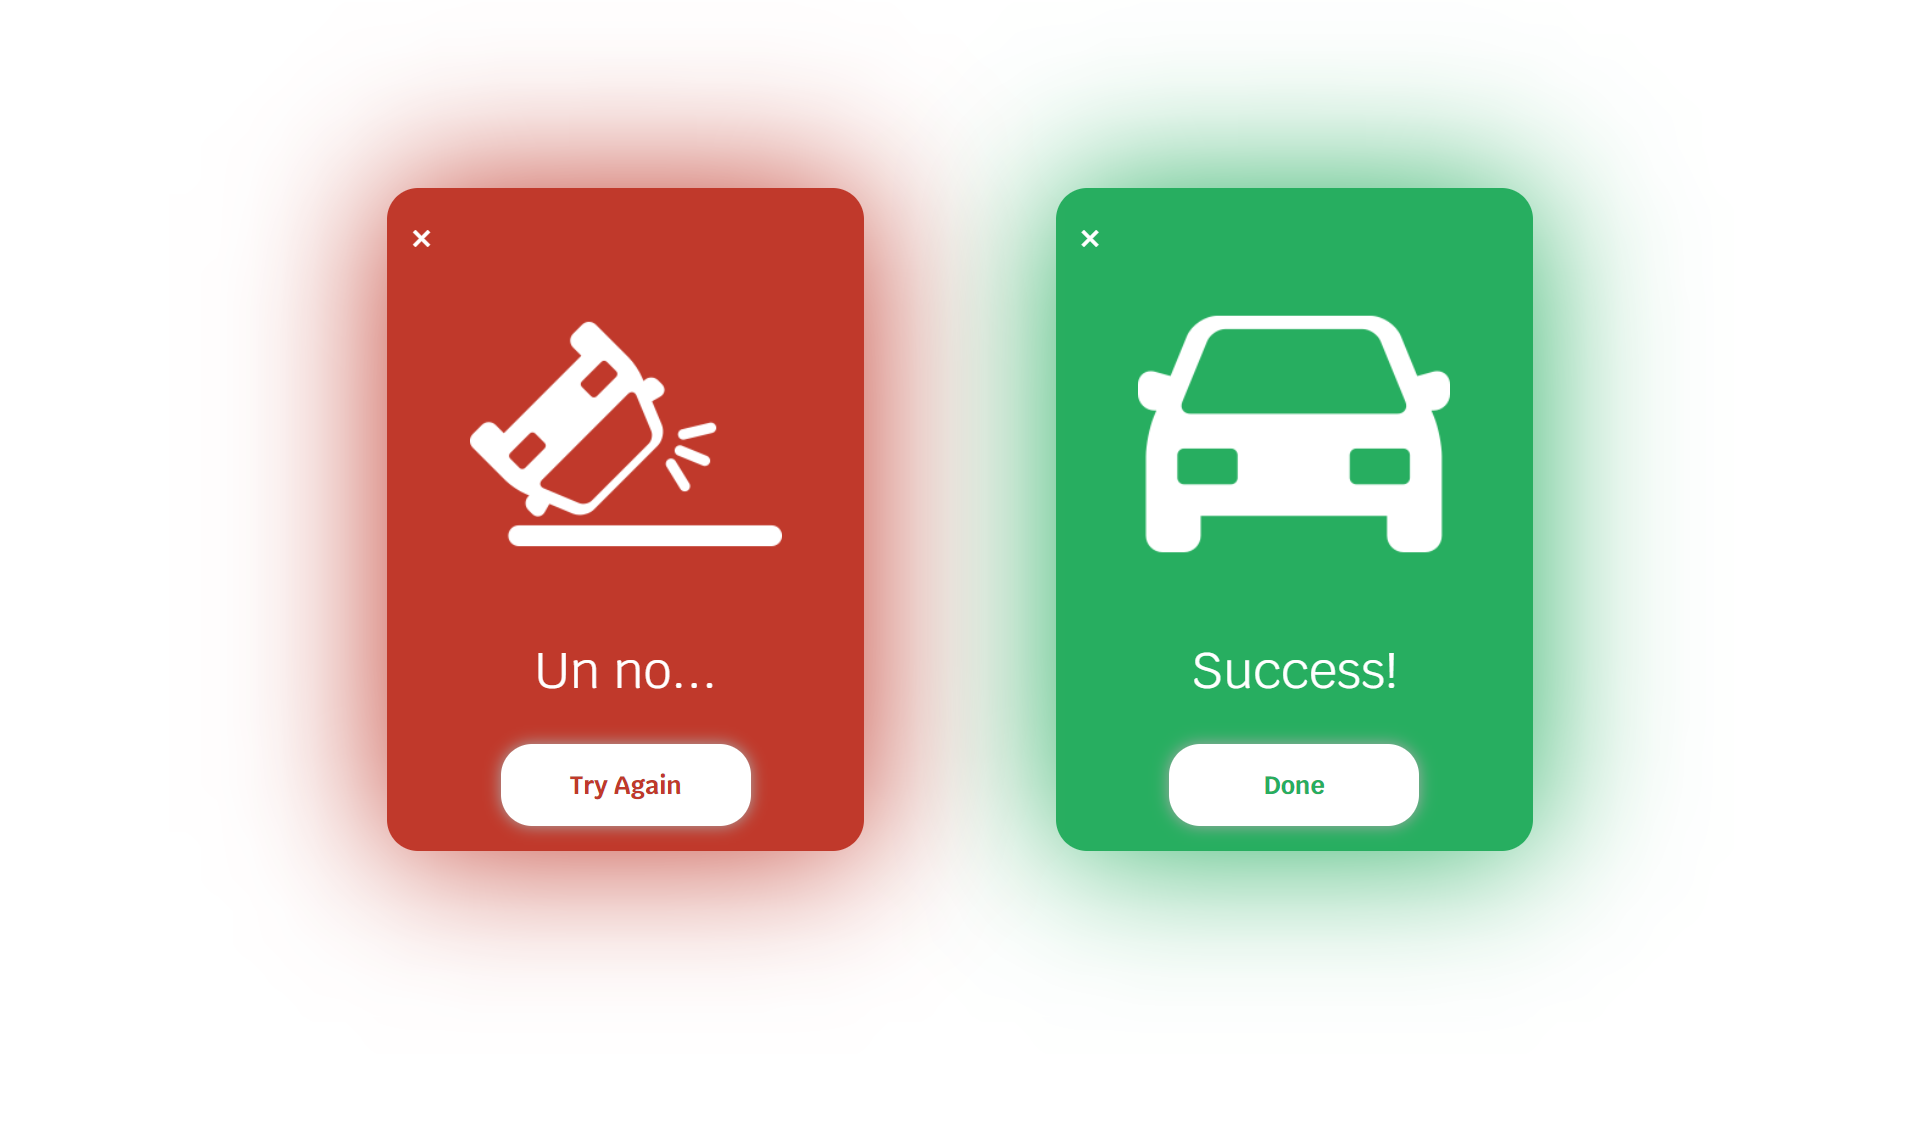
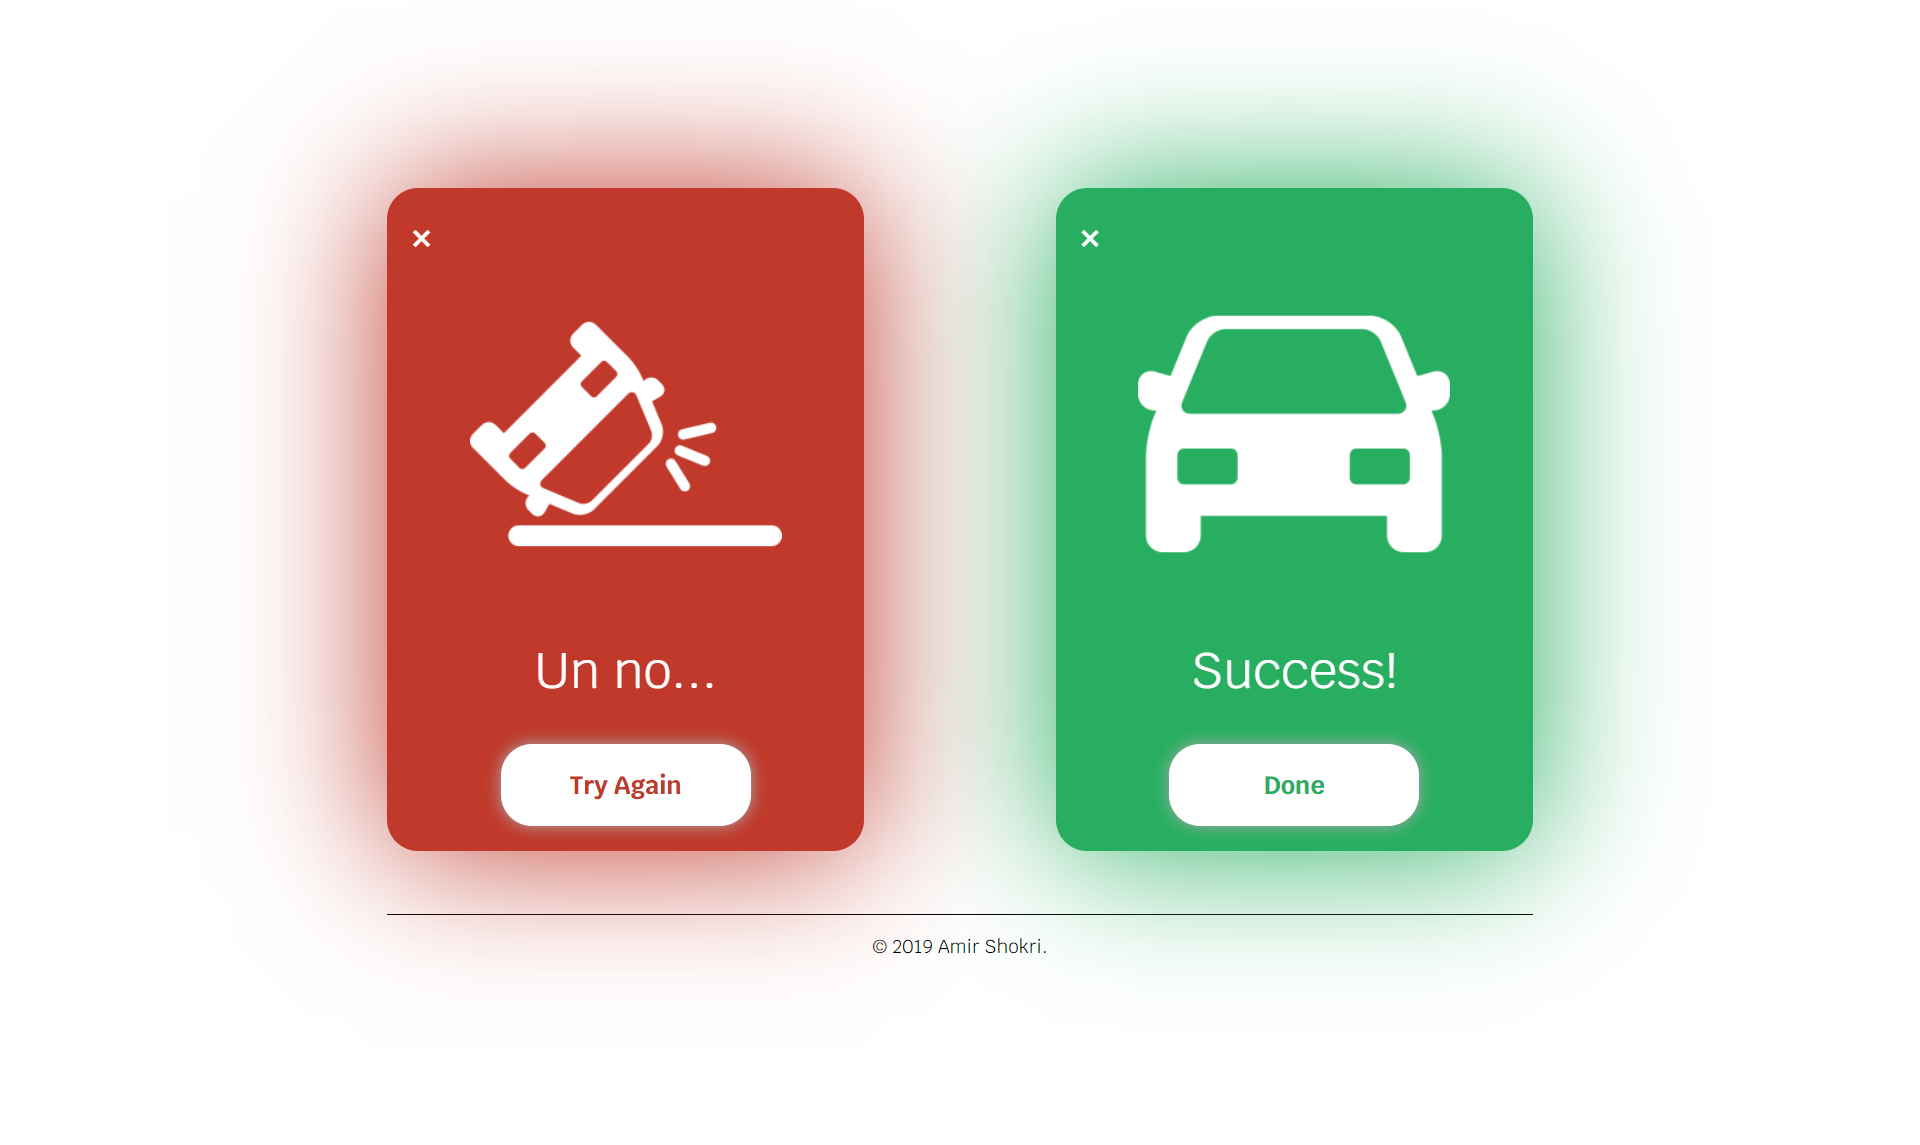
commit #28 (finish 012)
finish 012 E-Commerce Shop

diff --git a/012_e_commerce_shop.html b/012_e_commerce_shop.html
@@ -14,9 +14,132 @@
 	<div class="ui-012 left-to-right krub-regular d-block">
 
 		<!-- Page Content -->
-		<div class="container">
+		<div class="right-shop float-right col-9">
+			<div class="top-right-shop bg-light col-12">
+				<div class="float-right">
+					<div class="d-inline-block avatar"><img src="assets/img/avatar-012.png" alt="Avatar" title="Avatar" height="20" width="20" /></div>
+					<p class="d-inline username">Mr.nll</p>
+				</div>
+				<div class="float-left">
+					<a href="#" title="Back to Shop" class="text-dark back-to"><span class="fas fa-1x fa-arrow-left"></span>&nbsp; Back to Shop</a>
+				</div>
+				<div class="clearfix"></div>
+			</div>
+			<div class="bottom-right-shop clouds-bg col-12">
 
+				<div class="product-list">
+
+					<a href="#" title="Product 1" class="text-dark text-center">
+						<div class="product-item float-left col-4 d-inline">
+							<div class="product-image">
+								<img src="assets/img/product-1-012.png" alt="Product 1" title="Product 1" width="200" />
+							</div>
+							<div class="product-title">
+								<p>Product 1</p>
+							</div>
+							<div class="product-price">
+								<p class="text-bold">30.0$</p>
+							</div>
+						</div>
+					</a>
+
+					<a href="#" title="Product 2" class="text-dark text-center">
+						<div class="product-item float-left col-4 d-inline">
+							<div class="product-image">
+								<img src="assets/img/product-2-012.png" alt="Product 2" title="Product 2" width="200" />
+							</div>
+							<div class="product-title">
+								<p>Product 2</p>
+							</div>
+							<div class="product-price">
+								<p class="text-bold">32.0$</p>
+							</div>
+						</div>
+					</a>
+
+					<a href="#" title="Product 3" class="text-dark text-center">
+						<div class="product-item float-left col-4 d-inline">
+							<div class="product-image">
+								<img src="assets/img/product-3-012.png" alt="Product 3" title="Product 3" width="200" />
+							</div>
+							<div class="product-title">
+								<p>Product 3</p>
+							</div>
+							<div class="product-price">
+								<p class="text-bold">43.0$</p>
+							</div>
+						</div>
+					</a>
+
+					<a href="#" title="Product 4" class="text-dark text-center">
+						<div class="product-item float-right col-4 d-inline">
+							<div class="product-image">
+								<img src="assets/img/product-4-012.png" alt="Product 4" title="Product 4" width="200" />
+							</div>
+							<div class="product-title">
+								<p>Product 4</p>
+							</div>
+							<div class="product-price">
+								<p class="text-bold">12.0$</p>
+							</div>
+						</div>
+					</a>
+
+					<a href="#" title="Product 5" class="text-dark text-center">
+						<div class="product-item float-right col-4 d-inline">
+							<div class="product-image">
+								<img src="assets/img/product-5-012.png" alt="Product 5" title="Product 5" width="200" />
+							</div>
+							<div class="product-title">
+								<p>Product 5</p>
+							</div>
+							<div class="product-price">
+								<p class="text-bold">15.9$</p>
+							</div>
+						</div>
+					</a>
+
+					<a href="#" title="Product 6" class="text-dark text-center">
+						<div class="product-item float-left col-4 d-inline">
+							<div class="product-image">
+								<img src="assets/img/product-6-012.png" alt="Product 6" title="Product 6" width="200" />
+							</div>
+							<div class="product-title">
+								<p>Product 6</p>
+							</div>
+							<div class="product-price">
+								<p class="text-bold">9.9$</p>
+							</div>
+						</div>
+					</a>
+
+					<div class="clearfix"></div>
+
+				</div>
+
+			</div>
 		</div>
+		<div class="left-shop float-left col-3">
+			<div class="top-left-shop clouds-bg col-12 text-center">
+				<h1 class="dispkay-1-2 text-normal d-inline-block">Apple</h1><br />
+				<h2 class="dispkay-1 text-normal d-inline-block">Store</h2>
+			</div>
+			<div class="bottom-left-shop bg-light col-12">
+				<h3 class="dispkay-4">Shop</h3>
+				<ul class="category">
+					<li><a href="#" title="AirPods" class="text-dark">AirPods</a></li>
+					<li><a href="#" title="Clear Case" class="text-dark">Clear Case</a></li>
+					<li><a href="#" title="Leather Case" class="text-dark">Leather Case</a></li>
+					<li><a href="#" title="Silicone Case" class="text-dark">Silicone Case</a></li>
+					<li><a href="#" title="Wireless Charging Pad" class="text-dark">Wireless Charging Pad</a></li>
+				</ul>
+
+				<div class="copyright p-absolute">
+					<p class="display-1-2">&copy; 2019 Amir Shokri.</p>
+				</div>
+			</div>
+		</div>
+		<div class="clearfix"></div>
 
 	</div>
 

diff --git a/assets/css/layout.css b/assets/css/layout.css
@@ -591,6 +591,10 @@ div {
 	min-width: 200px;
 	box-shadow: 0 0 20px #aaa;
 }
+.ui-011 .copyright {
+	margin-top: 50px;
+	border-top: 1px solid #000;
+}
 
 
 /* UI-012 */
@@ -599,4 +603,61 @@ div {
 	height: 100%;
 	margin : 0;
 	padding: 0;
+}
+.ui-012 .left-shop {
+	height: 100vh;
+}
+.ui-012 .right-shop {
+	min-height: 100vh;
+}
+.ui-012 .right-shop .back-to {
+	letter-spacing: 1px;
+}
+.ui-012 .right-shop .back-to span {
+	margin-right: 30px;
+}
+.ui-012 .right-shop .avatar {
+	border-radius: 100%;
+	border:1px solid #ecf0f1;
+	padding: 10px;
+}
+.ui-012 .left-shop .top-left-shop {
+	padding: 33px;
+}
+.ui-012 .left-shop h1, .ui-012 .left-shop h2 {
+	letter-spacing: 7px;
+	line-height: 0;
+}
+.ui-012 .right-shop .top-right-shop {
+	padding: 50px;
+}
+.ui-012 .right-shop .product-item .product-price {
+	letter-spacing: 2px;
+}
+.ui-012 .right-shop .product-item a {
+	display: inline;
+}
+.ui-012 .right-shop .bottom-right-shop {
+	min-height: 100vh;
+	padding: 50px 0;
+}
+.ui-012 .right-shop .username {
+	margin-left: 25px;
+	cursor: pointer;
+}
+.ui-012 .bottom-left-shop {
+	padding: 30px;
+}
+.ui-012 .bottom-left-shop .category {
+	line-height: 50px;
+	margin-top: 70px !important;
+}
+.ui-012 .bottom-left-shop .category li, .ui-012 .bottom-left-shop .category {
+	margin :0;
+	padding: 0;
+	list-style: none;
+}
+.ui-012 .copyright {
+	bottom: -150px;
+	border-top: 1px solid #000;
 }

diff --git a/index.html b/index.html
@@ -44,9 +44,9 @@
 						<li><a href="010_social_share.html" title="Daily UI 010">10. Social Share</a></li>
 						<li><a href="011_flash_message.html" title="Daily UI 011">11. Flash Message</a></li>
 						<li><a href="012_e_commerce_shop.html" title="Daily UI 012">12. E-Commerce Shop</a></li>
-						<li><a href="#" title="Daily UI 013">13. Direct Messaging</a></li>
-						<li><a href="#" title="Daily UI 014">14. Countdown Timer</a></li>
-						<li><a href="#" title="Daily UI 015">15. On/Off Switch</a></li>
+						<li><a href="013_direct_messaging.html" title="Daily UI 013">13. Direct Messaging</a></li>
+						<li><a href="014_countdown_timer.html" title="Daily UI 014">14. Countdown Timer</a></li>
+						<li><a href="015_on_off_switch.html" title="Daily UI 015">15. On/Off Switch</a></li>
 						<li><a href="#" title="Daily UI 016">16. Pop-Up / Overlay</a></li>
 						<li><a href="#" title="Daily UI 017">17. Email Receipt</a></li>
 						<li><a href="#" title="Daily UI 018">18. Analytics Chart</a></li>

diff --git a/011_flash_message.html b/011_flash_message.html
@@ -53,6 +53,10 @@
 
 				</div>
 
+				<div class="copyright text-center">
+					<p class="display-1-2">&copy; 2019 Amir Shokri.</p>
+				</div>
+
 			</div>
 
 		</div>

diff --git a/README.md b/README.md
@@ -25,7 +25,7 @@ Daily Ui Challenge (100)
 9. Music Player						✓
 10. Social Share					✓
 11. Flash Message					✓
-12. E-Commerce Shop
+12. E-Commerce Shop 				✓
 13. Direct Messaging
 14. Countdown Timer
 15. On/Off Switch
